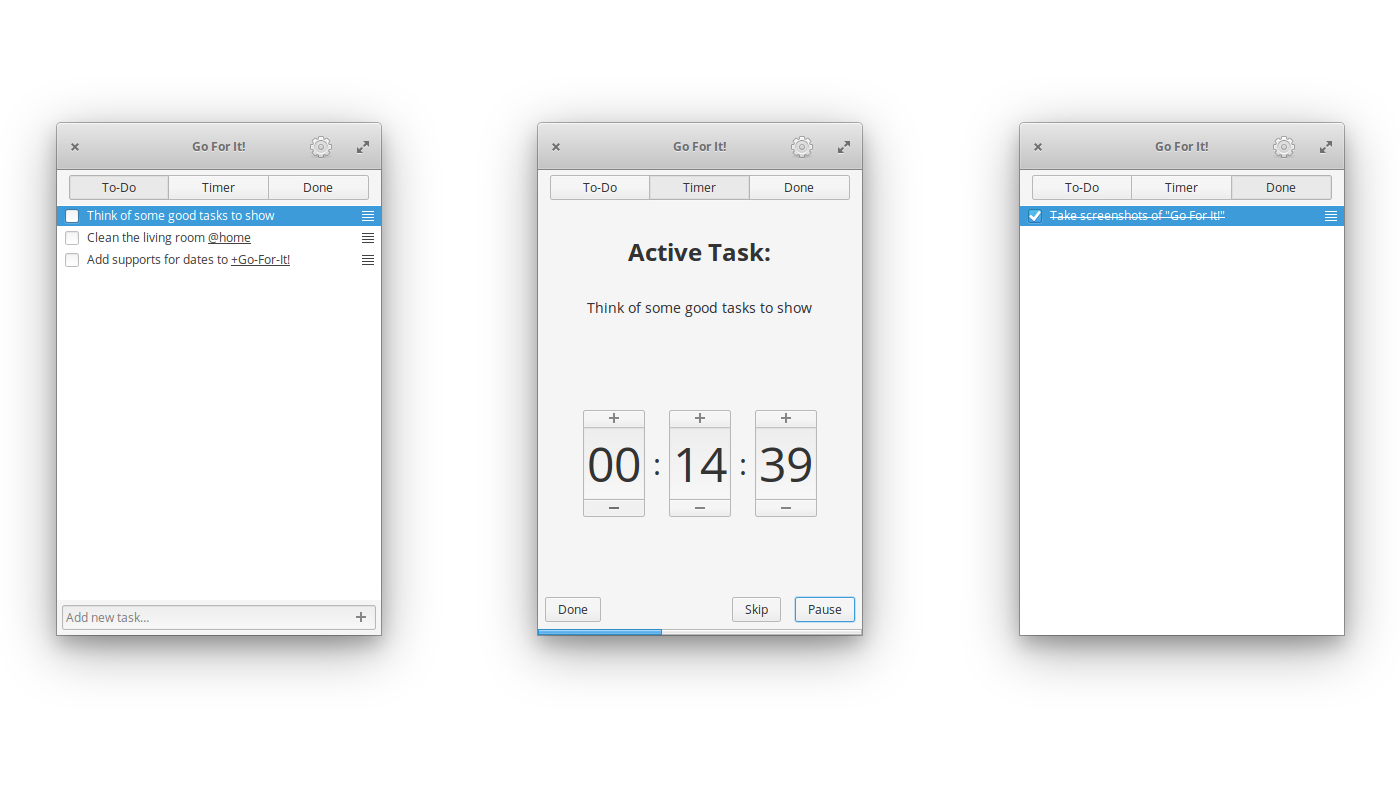
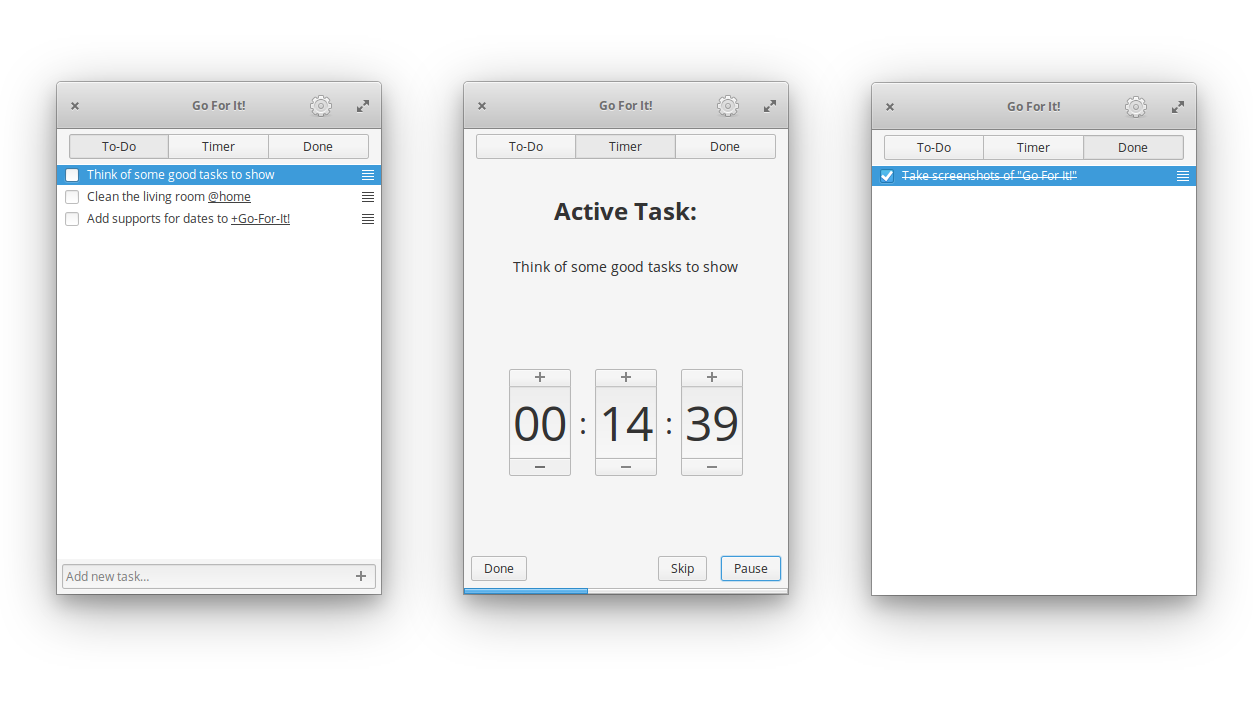
Change screenshot in readme and modified the screenshot a bit

Changed region(s): [[0.0311, 0.0936, 0.6536, 0.905], [0.6848, 0.0936, 0.9649, 0.905], [0.4358, 0.2809, 0.5603, 0.3433]]

diff --git a/README.md b/README.md
@@ -2,7 +2,7 @@
 
 _Go For It!_ is a simple and stylish productivity app, featuring a to-do list, merged with a timer that keeps your focus on the current task. More information for end users can be found [here](http://manuel-kehl.de/projects/go-for-it).
 
-![Screenshot](screenshot.jpg)
+![Screenshot](screenshot.png)
 
 ## How To
 
